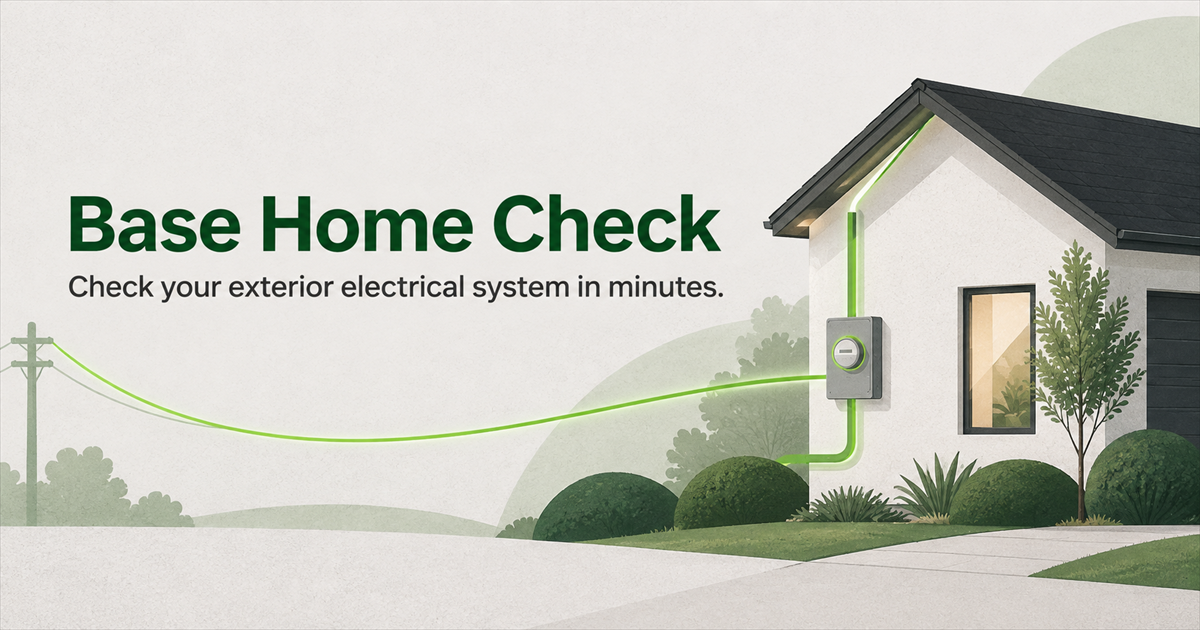
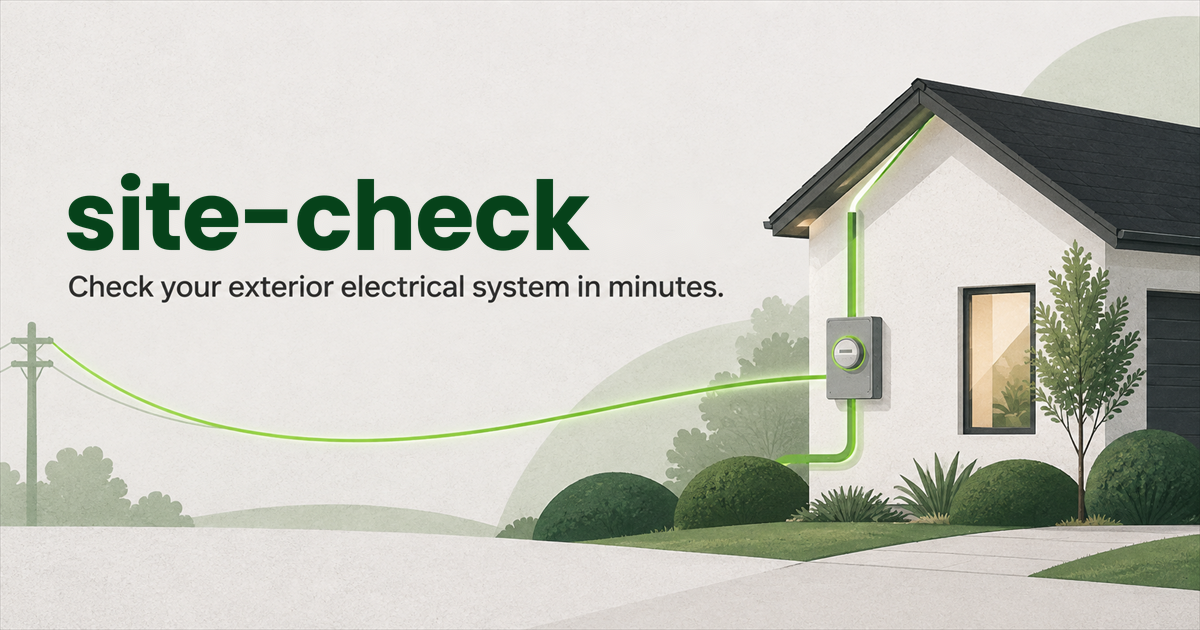
Replace social preview image with site-check branding
Claude-Session: https://claude.ai/code/session_012ewQ4eL9rQZYJjRmK1q4zQ

Changed region(s): [[0.0617, 0.2714, 0.6167, 0.4222]]

diff --git a/README.md b/README.md
@@ -1,5 +1,7 @@
 # site-check
 
+![site-check: check a home's exterior electrical system in minutes](./public/og.png)
+
 **AI-assisted home battery site qualification that catches unusable photos before they become multi-day delays.**
 
 Built for the Base Power Hackathon, site-check guides homeowners through a mobile photo survey, checks every image while they are still on site, and gives surveyors a structured preliminary assessment. AI reads the photos; deterministic rules make the preliminary decision; a human reviewer makes the final call.
